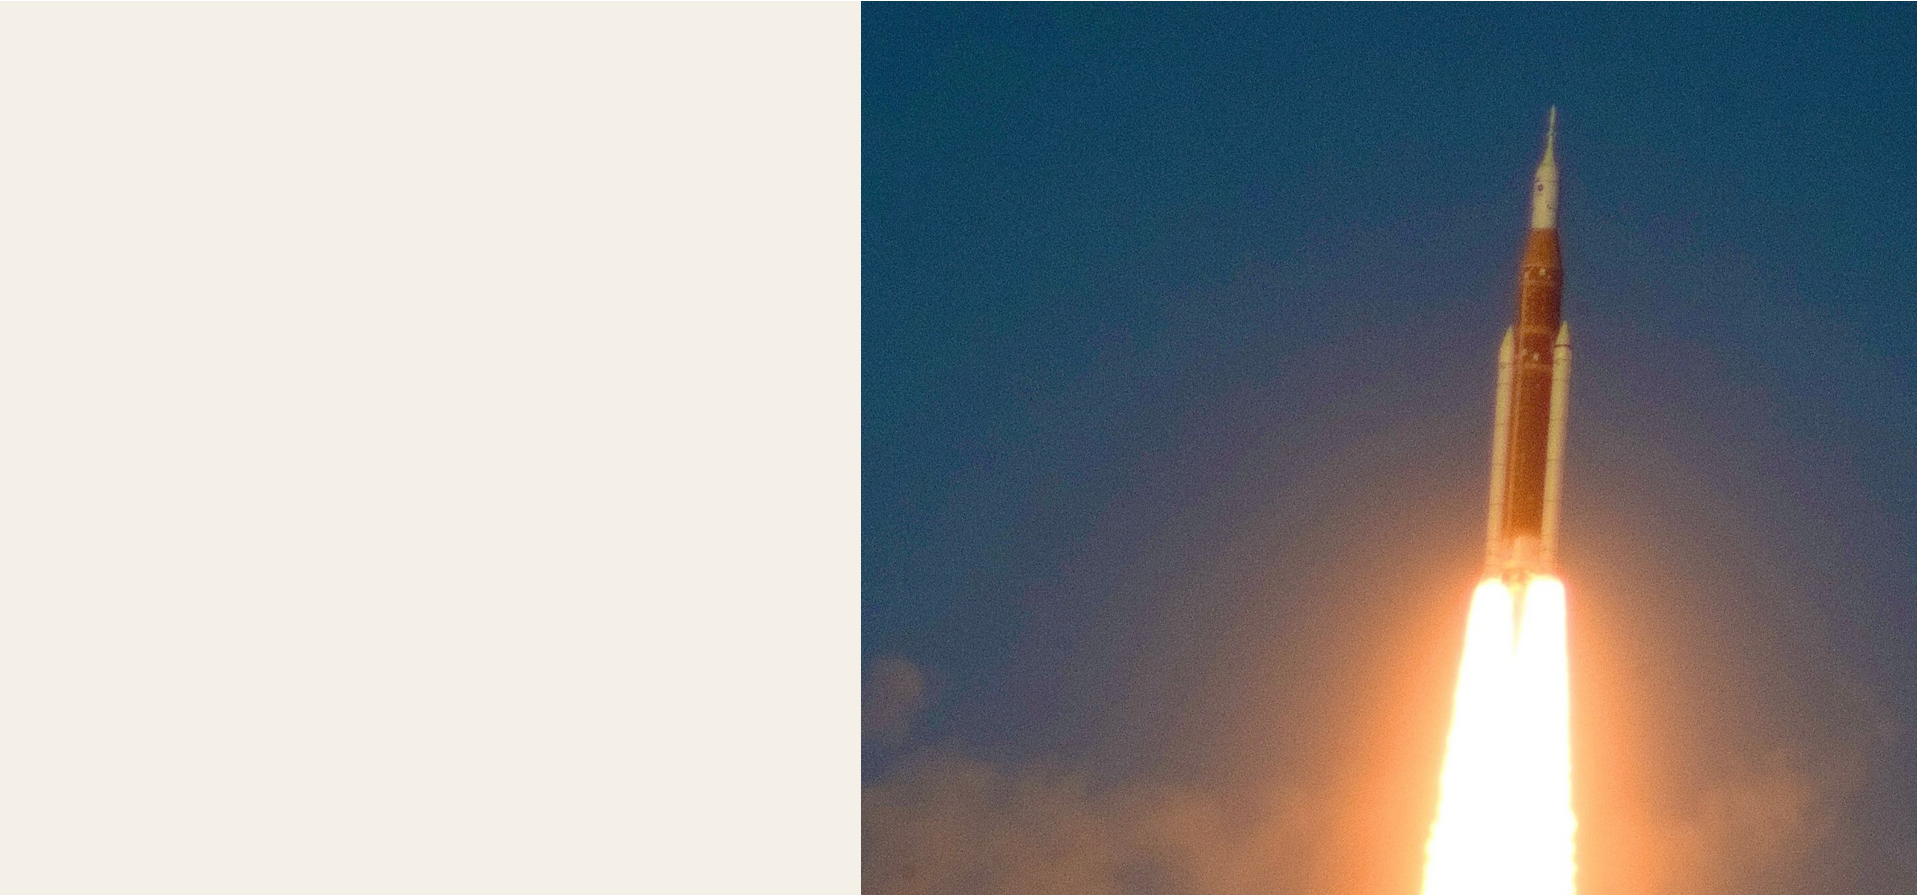
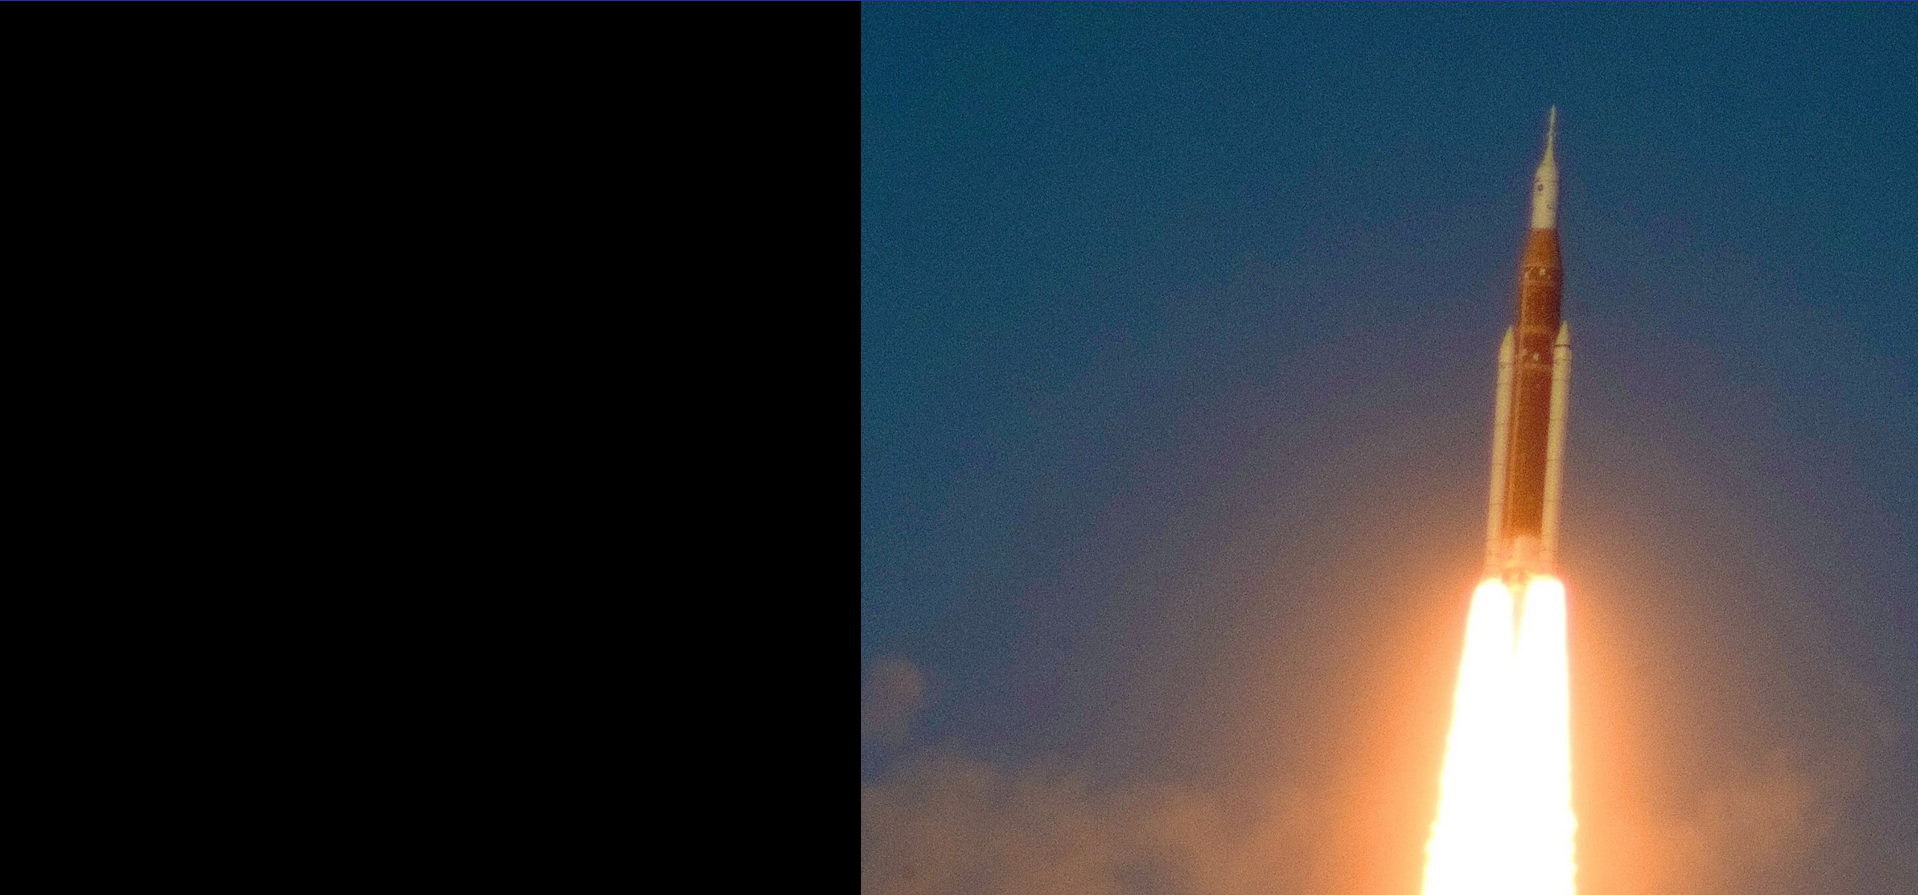
Replace slides 1-5 with updated PNG compositions

diff --git a/src/pages/Home/Home.js b/src/pages/Home/Home.js
@@ -11,10 +11,10 @@ import './Home.css';
 // scale:    zoom multiplier       e.g. 1 = normal, 1.2 = 20% zoom in
 const slideshowImages = [
   { src: '/images/home-slide-1.png', position: '90% center', scale: 1   },
-  { src: '/images/home-slide-2.jpg', position: '90% center', scale: 1   },
-  { src: '/images/home-slide-3.jpg', position: '90% center', scale: 1   },
-  { src: '/images/home-slide-4.jpg', position: '90% center', scale: 1   },
-  { src: '/images/home-slide-5.jpg', position: '90% center', scale: 1   },
+  { src: '/images/home-slide-2.png', position: '90% center', scale: 1   },
+  { src: '/images/home-slide-3.png', position: '90% center', scale: 1   },
+  { src: '/images/home-slide-4.png', position: '90% center', scale: 1   },
+  { src: '/images/home-slide-5.png', position: '90% center', scale: 1   },
   { src: '/images/home-slide-6.jpg', position: '90% center', scale: 1   },
   { src: '/images/home-slide-7.jpg', position: '90% center', scale: 1   },
   { src: '/images/home-slide-8.jpg', position: '90% center', scale: 1   },
